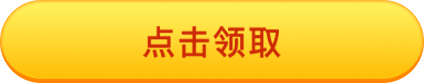
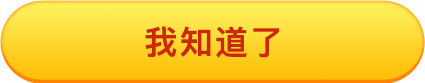
商品详情也可以获取新用户见面礼

diff --git a/pages/comDetail/index.js b/pages/comDetail/index.js
@@ -26,7 +26,8 @@ Page({
     shareBg: '../../images/shareBg.png',
     headImg: '../../images/shareMinPro.png',
     erwmImg: '../../images/erwmImg.png',
-    sceneId:''
+    sceneId:'',
+    isShowNewerGet: false
   },
   onLoad: function(option) {
     new app.ToastPannel();
@@ -52,6 +53,18 @@ Page({
                 this.getItemInfo();
                 //查询用户橘子
                 this.getPointBalance();
+                //查询新用户见面礼
+                service.isNewer().subscribe({
+                  next: res2 => {
+                    console.log(res2);
+                    this.setData({
+                      isShowNewerGet: res2
+                    });
+
+                  },
+                  error: err => console.log(err)
+                });
+
               } else {
                 console.log('token不存在');
                 //新用户 授权 登录 跳转
@@ -101,6 +114,17 @@ Page({
         this.getItemInfo();
         //查询用户橘子
         this.getPointBalance();
+        //查询新用户见面礼
+        service.isNewer().subscribe({
+          next: res2 => {
+            console.log(res2)
+            this.setData({
+              isShowNewerGet: res2
+            });
+
+          },
+          error: err => console.log(err)
+        });
       } else {
         console.log('token不存在');
         //新用户 授权 登录 跳转
@@ -194,6 +218,12 @@ Page({
         title: '错误',
         content: err
       });
+    });
+  },
+  //关闭新用户见面礼
+  closeGetNewer: function () {
+    this.setData({
+      isShowNewerGet: false
     });
   },
   callPhone: function () {
